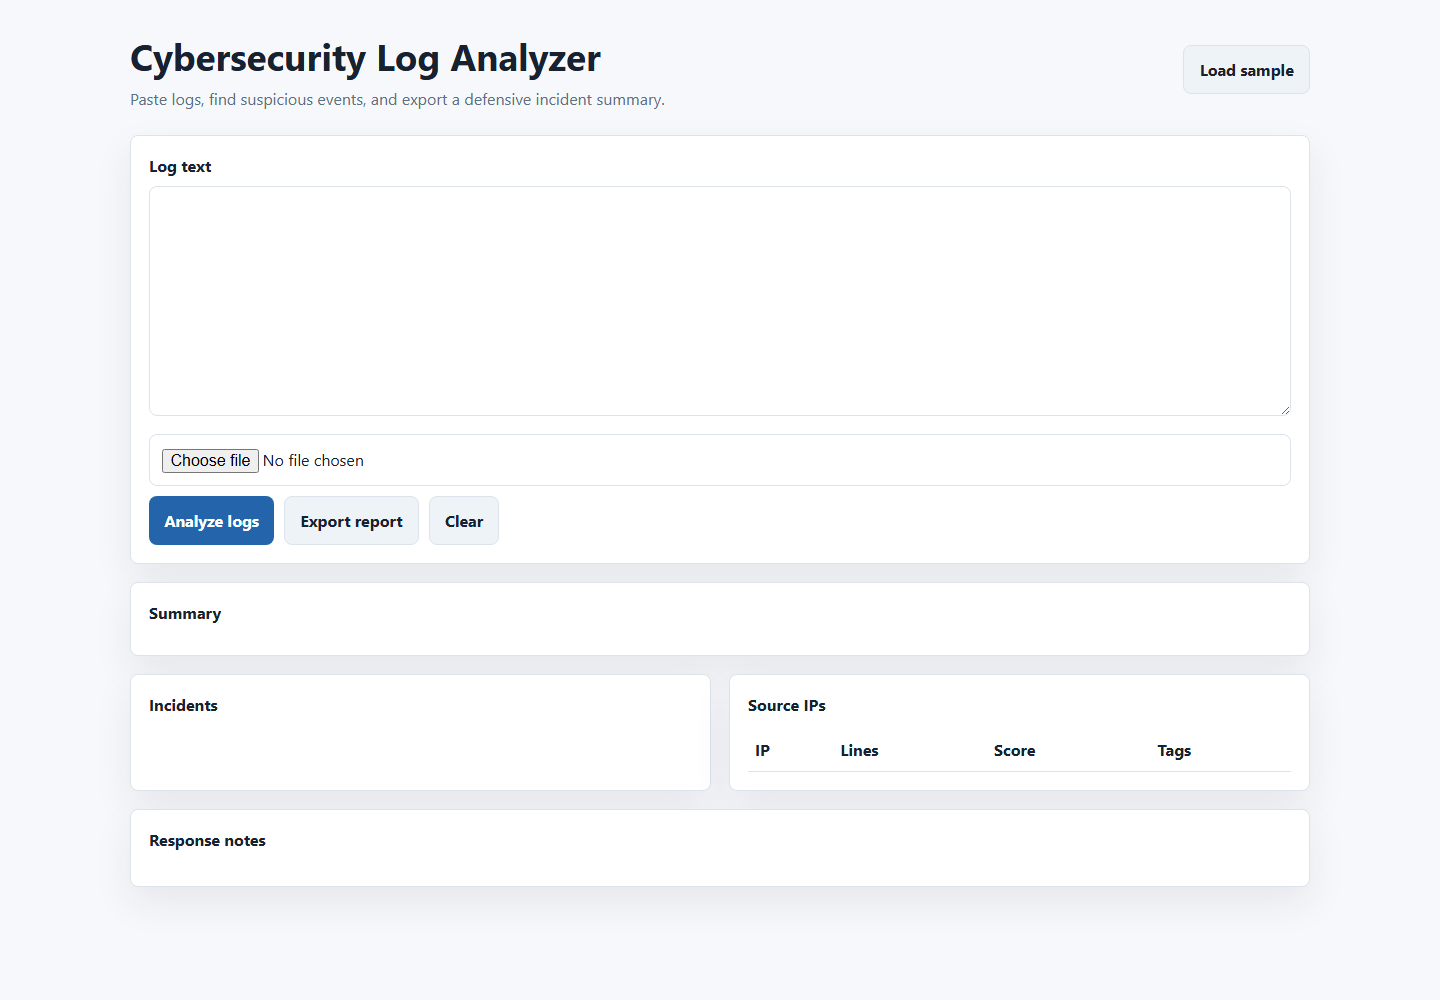
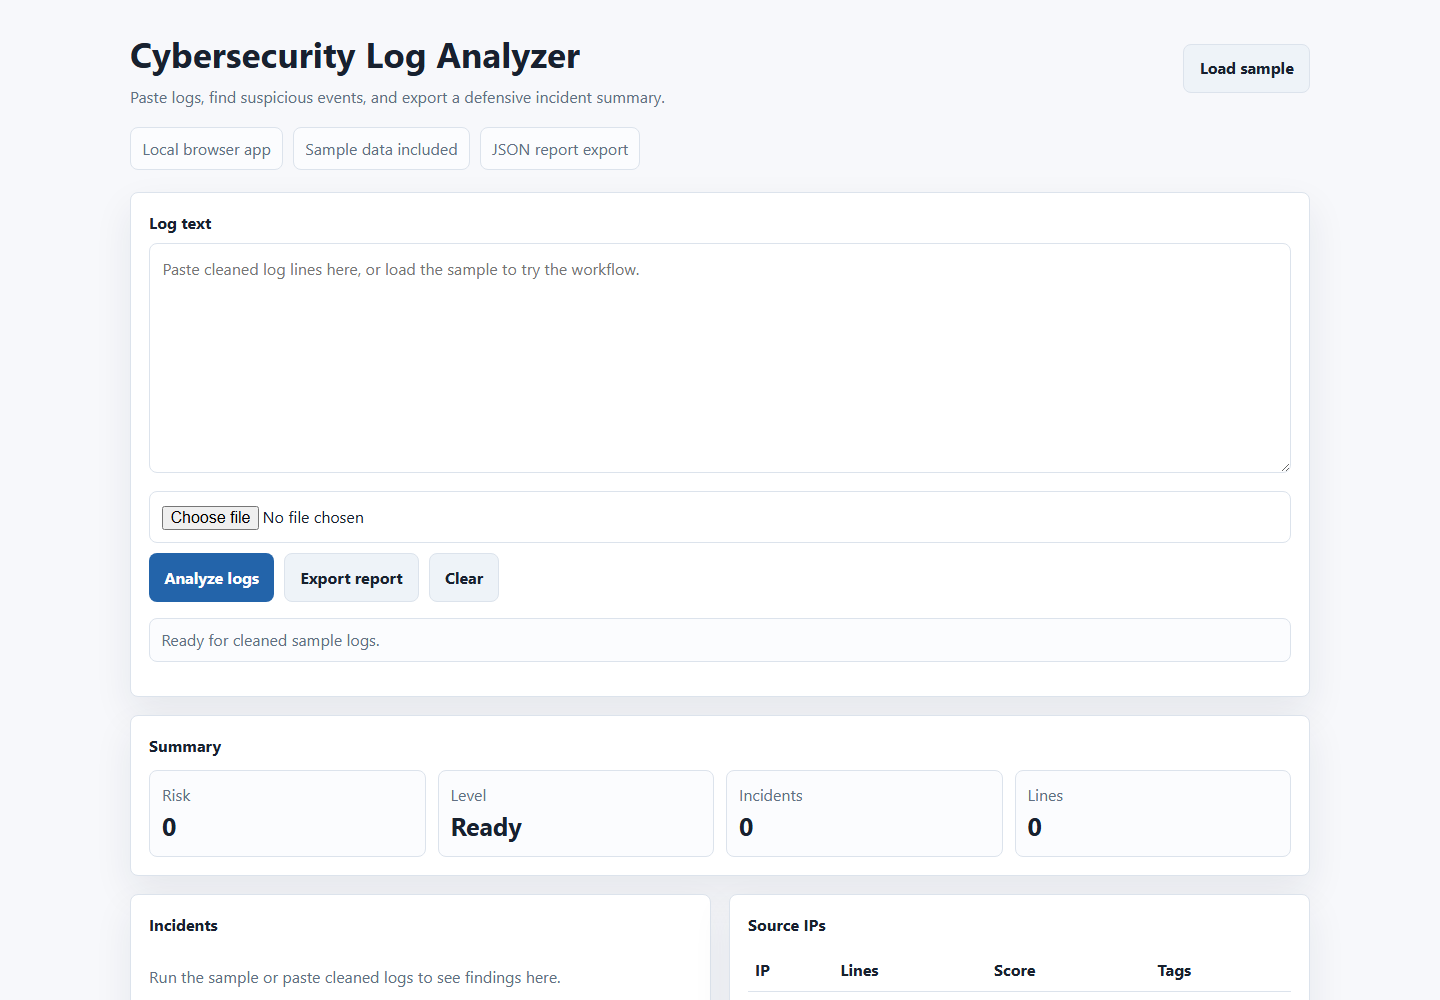
Polish log analyzer portfolio app

diff --git a/app.js b/app.js
@@ -8,6 +8,8 @@ const metrics = document.querySelector("#metrics");
 const incidentList = document.querySelector("#incidents");
 const ipTable = document.querySelector("#ip-table tbody");
 const advice = document.querySelector("#advice");
+const checklist = document.querySelector("#checklist");
+const statusBox = document.querySelector("#status");
 
 let lastReport = null;
 
@@ -86,8 +88,10 @@ function analyzeLogs(text) {
 }
 
 function render(report) {
+  const riskLevel = getRiskLevel(report.riskScore);
   metrics.innerHTML = `
-    <div class="metric"><span class="muted">Risk</span><strong>${report.riskScore}</strong></div>
+    <div class="metric"><span class="muted">Risk</span><strong class="${riskLevel.className}">${report.riskScore}</strong></div>
+    <div class="metric"><span class="muted">Level</span><strong>${riskLevel.label}</strong></div>
     <div class="metric"><span class="muted">Incidents</span><strong>${report.incidentCount}</strong></div>
     <div class="metric"><span class="muted">Lines</span><strong>${report.lineCount}</strong></div>
     <div class="metric"><span class="muted">IPs</span><strong>${report.uniqueIps}</strong></div>
@@ -109,7 +113,14 @@ function render(report) {
       <td>${stat.tags.map(tag => `<span class="tag">${tag}</span>`).join("")}</td>
     </tr>
   `).join("");
+  checklist.innerHTML = buildChecklist(report).map(item => `
+    <div class="check-item">
+      <strong>${item.title}</strong>
+      <span>${item.detail}</span>
+    </div>
+  `).join("");
   advice.innerHTML = buildAdvice(report).map(line => `<li>${line}</li>`).join("");
+  statusBox.textContent = `Analysis complete: ${report.incidentCount} incident${report.incidentCount === 1 ? "" : "s"} from ${report.lineCount} log line${report.lineCount === 1 ? "" : "s"}.`;
 }
 
 function buildAdvice(report) {
@@ -119,6 +130,49 @@ function buildAdvice(report) {
   if (report.ipStats.some(stat => stat.tags.includes("Sensitive path probe"))) actions.push("Check web server hardening, disable unused admin routes, and monitor repeated 404 probes.");
   if (actions.length === 0) actions.push("Keep collecting logs and compare this run with a normal baseline.");
   return actions;
+}
+
+function buildChecklist(report) {
+  return [
+    {
+      title: "Confirm ownership",
+      detail: "Use this on logs you own or have permission to review."
+    },
+    {
+      title: "Check the strongest source",
+      detail: report.ipStats[0]
+        ? `${report.ipStats[0].ip} has the highest score in this run.`
+        : "No source IP stood out in this run."
+    },
+    {
+      title: "Look for follow-up access",
+      detail: report.incidentCount
+        ? "Search around the same timestamps for successful logins or new admin actions."
+        : "No suspicious rule hits were found, so compare against a normal baseline."
+    }
+  ];
+}
+
+function getRiskLevel(score) {
+  if (score >= 70) return { label: "High", className: "danger" };
+  if (score >= 35) return { label: "Medium", className: "warning" };
+  return { label: "Low", className: "success" };
+}
+
+function renderEmptyState() {
+  metrics.innerHTML = `
+    <div class="metric"><span class="muted">Risk</span><strong>0</strong></div>
+    <div class="metric"><span class="muted">Level</span><strong>Ready</strong></div>
+    <div class="metric"><span class="muted">Incidents</span><strong>0</strong></div>
+    <div class="metric"><span class="muted">Lines</span><strong>0</strong></div>
+  `;
+  incidentList.innerHTML = "<p class=\"muted\">Run the sample or paste cleaned logs to see findings here.</p>";
+  ipTable.innerHTML = "<tr><td colspan=\"4\" class=\"muted\">No source IPs analysed yet.</td></tr>";
+  checklist.innerHTML = `
+    <div class="check-item"><strong>Start with sample data</strong><span>Use the included sample to understand the workflow before reviewing your own cleaned logs.</span></div>
+    <div class="check-item"><strong>Keep the evidence</strong><span>Each finding keeps the original line so the score can be checked manually.</span></div>
+  `;
+  advice.innerHTML = "<li>Load the sample log to see response notes.</li>";
 }
 
 function escapeHtml(value) {
@@ -137,9 +191,16 @@ function download(filename, content) {
 
 fileInput.addEventListener("change", async () => {
   const file = fileInput.files[0];
-  if (file) input.value = await file.text();
+  if (file) {
+    input.value = await file.text();
+    statusBox.textContent = `Loaded ${file.name}. Run analysis when ready.`;
+  }
 });
 analyzeButton.addEventListener("click", () => {
+  if (!input.value.trim()) {
+    statusBox.textContent = "Add log text or load the sample first.";
+    return;
+  }
   lastReport = analyzeLogs(input.value);
   render(lastReport);
 });
@@ -154,8 +215,14 @@ clearButton.addEventListener("click", () => {
   incidentList.innerHTML = "";
   ipTable.innerHTML = "";
   advice.innerHTML = "";
+  checklist.innerHTML = "";
+  statusBox.textContent = "Cleared. Ready for another log sample.";
   lastReport = null;
+  renderEmptyState();
 });
 exportButton.addEventListener("click", () => {
   if (lastReport) download("security-log-report.json", JSON.stringify(lastReport, null, 2));
+  else statusBox.textContent = "Run an analysis before exporting a report.";
 });
+
+renderEmptyState();

diff --git a/styles.css b/styles.css
@@ -16,16 +16,23 @@
 
 * { box-sizing: border-box; }
 
+html {
+  overflow-x: hidden;
+}
+
 body {
   margin: 0;
   font-family: Inter, ui-sans-serif, system-ui, -apple-system, BlinkMacSystemFont, "Segoe UI", sans-serif;
   background: var(--bg);
   color: var(--text);
   line-height: 1.5;
+  overflow-x: hidden;
 }
 
 button, input, textarea, select {
   font: inherit;
+  max-width: 100%;
+  min-width: 0;
 }
 
 button {
@@ -70,20 +77,39 @@ select:focus-visible {
 
 .brand h1 {
   margin: 0;
-  font-size: clamp(1.45rem, 3vw, 2.3rem);
+  font-size: 2.2rem;
   letter-spacing: 0;
+  overflow-wrap: anywhere;
 }
 
 .brand p {
   margin: 4px 0 0;
   color: var(--muted);
   max-width: 760px;
+  overflow-wrap: anywhere;
 }
 
 .grid {
   display: grid;
   grid-template-columns: repeat(12, 1fr);
   gap: 18px;
+}
+
+.status-strip {
+  display: flex;
+  flex-wrap: wrap;
+  gap: 10px;
+  margin: -6px 0 22px;
+}
+
+.status-strip span,
+.status-note {
+  border: 1px solid var(--line);
+  border-radius: 8px;
+  background: #fbfcfe;
+  color: var(--muted);
+  padding: 0.55rem 0.7rem;
+  overflow-wrap: anywhere;
 }
 
 .panel {
@@ -135,7 +161,7 @@ textarea {
 
 .metric-row {
   display: grid;
-  grid-template-columns: repeat(4, minmax(0, 1fr));
+  grid-template-columns: repeat(auto-fit, minmax(150px, 1fr));
   gap: 12px;
 }
 
@@ -161,6 +187,25 @@ textarea {
   gap: 10px;
 }
 
+.checklist {
+  display: grid;
+  grid-template-columns: repeat(3, minmax(0, 1fr));
+  gap: 12px;
+}
+
+.check-item {
+  border: 1px solid var(--line);
+  border-radius: 8px;
+  background: #fbfcfe;
+  padding: 12px;
+}
+
+.check-item span {
+  display: block;
+  color: var(--muted);
+  margin-top: 4px;
+}
+
 .item {
   border: 1px solid var(--line);
   border-radius: 8px;
@@ -173,6 +218,7 @@ textarea {
 .tag {
   display: inline-flex;
   align-items: center;
+  max-width: 100%;
   border-radius: 999px;
   border: 1px solid var(--line);
   padding: 0.18rem 0.5rem;
@@ -180,6 +226,7 @@ textarea {
   background: #f5f8fb;
   color: var(--muted);
   font-size: 0.82rem;
+  overflow-wrap: anywhere;
 }
 
 canvas {
@@ -195,6 +242,10 @@ table {
   border-collapse: collapse;
 }
 
+.table-wrap {
+  overflow-x: auto;
+}
+
 th, td {
   text-align: left;
   border-bottom: 1px solid var(--line);
@@ -206,11 +257,12 @@ th, td {
   .topbar { align-items: flex-start; flex-direction: column; }
   .panel,
   .panel.third { grid-column: 1 / -1; }
-  .metric-row { grid-template-columns: repeat(2, minmax(0, 1fr)); }
+  .checklist { grid-template-columns: 1fr; }
 }
 
 @media (max-width: 520px) {
   .app-shell { width: min(100% - 20px, 1180px); padding-top: 18px; }
+  .brand h1 { font-size: 1.55rem; line-height: 1.15; }
   .metric-row { grid-template-columns: 1fr; }
   button { width: 100%; }
 }

diff --git a/index.html b/index.html
@@ -15,16 +15,22 @@
       </div>
       <button id="sample" class="secondary">Load sample</button>
     </header>
+    <section class="status-strip" aria-label="project status">
+      <span>Local browser app</span>
+      <span>Sample data included</span>
+      <span>JSON report export</span>
+    </section>
     <section class="grid">
       <div class="panel full">
         <label for="log-input">Log text</label>
-        <textarea id="log-input" spellcheck="false"></textarea>
+        <textarea id="log-input" spellcheck="false" placeholder="Paste cleaned log lines here, or load the sample to try the workflow."></textarea>
         <div class="actions">
           <input id="log-file" type="file" accept=".log,.txt">
           <button id="analyze">Analyze logs</button>
           <button id="export" class="secondary">Export report</button>
           <button id="clear" class="secondary">Clear</button>
         </div>
+        <p id="status" class="status-note" aria-live="polite">Ready for cleaned sample logs.</p>
       </div>
       <div class="panel full">
         <h2>Summary</h2>
@@ -36,10 +42,16 @@
       </div>
       <div class="panel">
         <h2>Source IPs</h2>
-        <table id="ip-table">
-          <thead><tr><th>IP</th><th>Lines</th><th>Score</th><th>Tags</th></tr></thead>
-          <tbody></tbody>
-        </table>
+        <div class="table-wrap">
+          <table id="ip-table">
+            <thead><tr><th>IP</th><th>Lines</th><th>Score</th><th>Tags</th></tr></thead>
+            <tbody></tbody>
+          </table>
+        </div>
+      </div>
+      <div class="panel full">
+        <h2>Analyst checklist</h2>
+        <div id="checklist" class="checklist"></div>
       </div>
       <div class="panel full">
         <h2>Response notes</h2>

diff --git a/README.md b/README.md
@@ -26,7 +26,12 @@ The test checks JavaScript syntax, required project files, README sections, scre
 - Uses clear rule-based checks instead of hidden scoring.
 - Groups findings by source IP where possible.
 - Shows matched evidence and response notes.
+- Shows a short analyst checklist after each run.
 - Exports a JSON report for later review.
+
+## Completion Status
+
+This is complete as a beginner browser-based blue-team project. It has a sample log, visible scoring, response notes, export, screenshot, and a smoke test.
 
 ## Safety Note
 
@@ -42,7 +47,7 @@ Use sample logs or logs you are allowed to review. Do not upload real customer, 
 
 - Add a few more sample logs for failed sign-ins, web probes, and normal traffic.
 - Add highlighted evidence inside the pasted log text.
-- Add a manual test checklist for the main rules.
+- Add rule toggles for comparing different detection ideas.
 
 ## Portfolio Notes
 

diff --git a/PSEUDOCODE.md b/PSEUDOCODE.md
@@ -5,8 +5,8 @@
 3. Run each line through defensive detection rules.
 4. Extract source IP addresses when they exist.
 5. Group incidents by IP and add risk points.
-6. Render the summary, incident list, IP table, and response notes.
-7. Export the report as JSON.
+6. Render the summary, risk label, incident list, IP table, checklist, and response notes.
+7. Export the report as JSON after an analysis has been run.
 
-Long-line survival note: if the log line reaches the edge of the screen, it is probably also annoying in production.
+Review note: keep the matched log line visible beside each finding so the score can be checked manually.
 